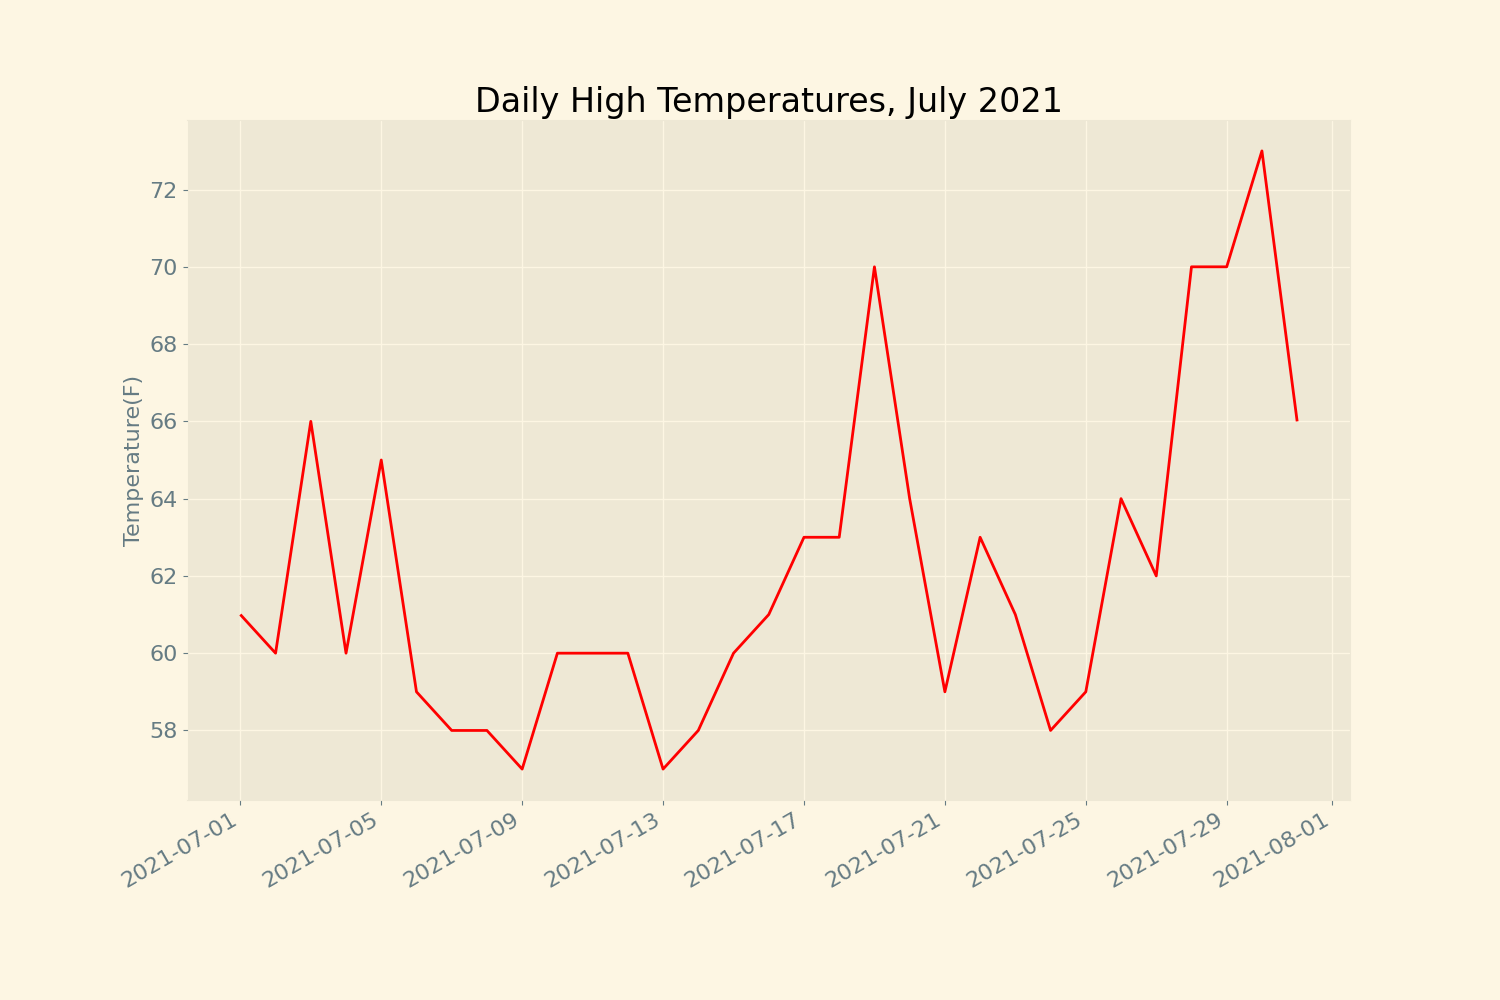
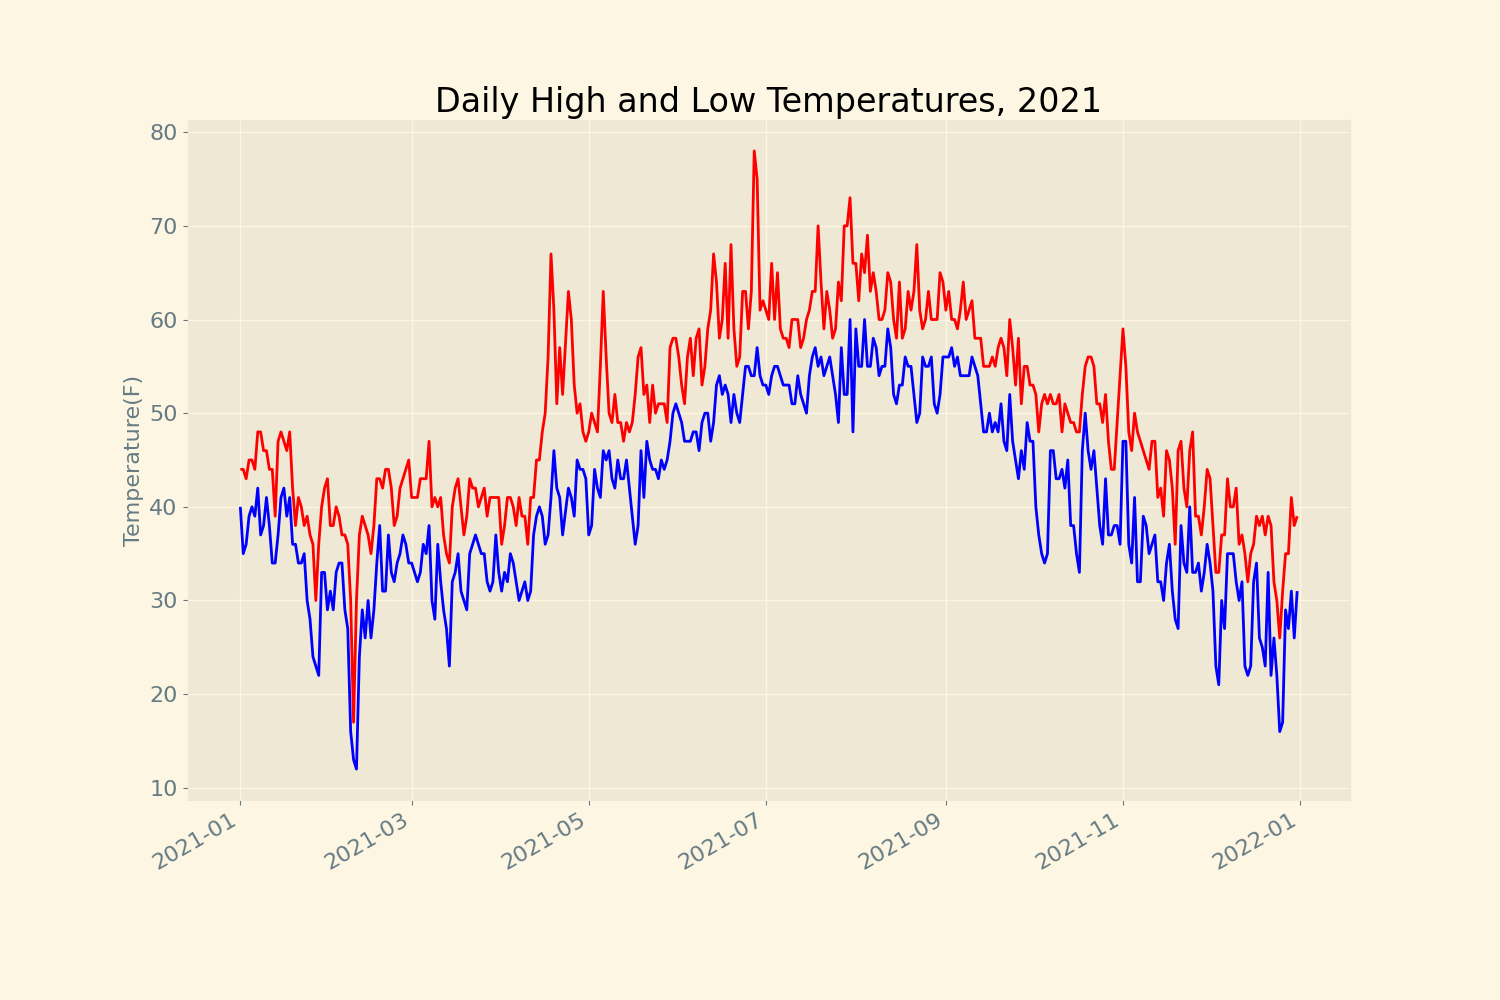
更新

diff --git a/weather_data/sitka_highs2.py b/weather_data/sitka_highs2.py
@@ -7,33 +7,40 @@ import matplotlib.pyplot as plt
 import numpy as np
 from scipy.interpolate import interp1d
 
-path = Path('weather_data_csv/sitka_weather_07-2021_simple.csv')
+path = Path('weather_data_csv/sitka_weather_2021_simple.csv')
 lines = path.read_text().splitlines()
 
 reader = csv.reader(lines)
 header_row = next(reader)
 
-# 提取日期和最高温度
-dates, highs = [], []
+# 提取日期, 最高温度和最低温度
+dates, highs, lows = [], [], []
 for row in reader:
     current_date = datetime.strptime(row[2], '%Y-%m-%d')
     high = int(row[4])
+    low = int(row[5])
     dates.append(current_date)
     highs.append(high)
+    lows.append(low)
 
 # 根据最高温度绘图
 plt.style.use('Solarize_Light2')
 fig, ax = plt.subplots(figsize=(15, 10))
 
-# 插值并绘制曲线
+# 插值并绘制最高温度曲线
 date_nums = mdates.date2num(dates)
-f = interp1d(date_nums, highs, kind='cubic')
+f_highs = interp1d(date_nums, highs, kind='cubic')
 date_nums_interp = np.linspace(date_nums.min(), date_nums.max(), len(dates) * 10)
-highs_interp = f(date_nums_interp)
+highs_interp = f_highs(date_nums_interp)
 ax.plot(mdates.num2date(date_nums_interp), highs_interp, color='red')
 
+# 插值并绘制最低温度曲线
+f_lows = interp1d(date_nums, lows, kind='cubic')
+lows_interp = f_lows(date_nums_interp)
+ax.plot(mdates.num2date(date_nums_interp), lows_interp, color='blue')
+
 # 设置绘制的格式
-ax.set_title("Daily High Temperatures, July 2021", fontsize=24)
+ax.set_title("Daily High and Low Temperatures, 2021", fontsize=24)
 ax.set_xlabel('', fontsize=16)
 fig.autofmt_xdate()
 ax.set_ylabel("Temperature(F)", fontsize=16)

diff --git a/weather_data/sitka_highs.py b/weather_data/sitka_highs.py
@@ -4,27 +4,30 @@ from pathlib import Path
 
 import matplotlib.pyplot as plt
 
-path = Path('weather_data_csv/sitka_weather_07-2021_simple.csv')
+path = Path('weather_data_csv/sitka_weather_2021_simple.csv')
 lines = path.read_text().splitlines()
 
 reader = csv.reader(lines)
 header_row = next(reader)
 
-# 提取日期和最高温度
-dates, highs = [], []
+# 提取日期, 最高温度和最低温度
+dates, highs, lows = [], [], []
 for row in reader:
     current_date = datetime.strptime(row[2], '%Y-%m-%d')
     high = int(row[4])
+    low = int(row[5])
     dates.append(current_date)
     highs.append(high)
+    lows.append(low)
 
 # 根据最高温度绘图
 plt.style.use('Solarize_Light2')
 fig, ax = plt.subplots(figsize=(15, 10))
 ax.plot(dates, highs, color='red')
+ax.plot(dates, lows, color='blue')
 
 # 设置绘制的格式
-ax.set_title("Daily High Temperatures, July 2021", fontsize=24)
+ax.set_title("Daily High and Low Temperatures, 2021", fontsize=24)
 ax.set_xlabel('', fontsize=16)
 fig.autofmt_xdate()
 ax.set_ylabel("Temperature(F)", fontsize=16)
